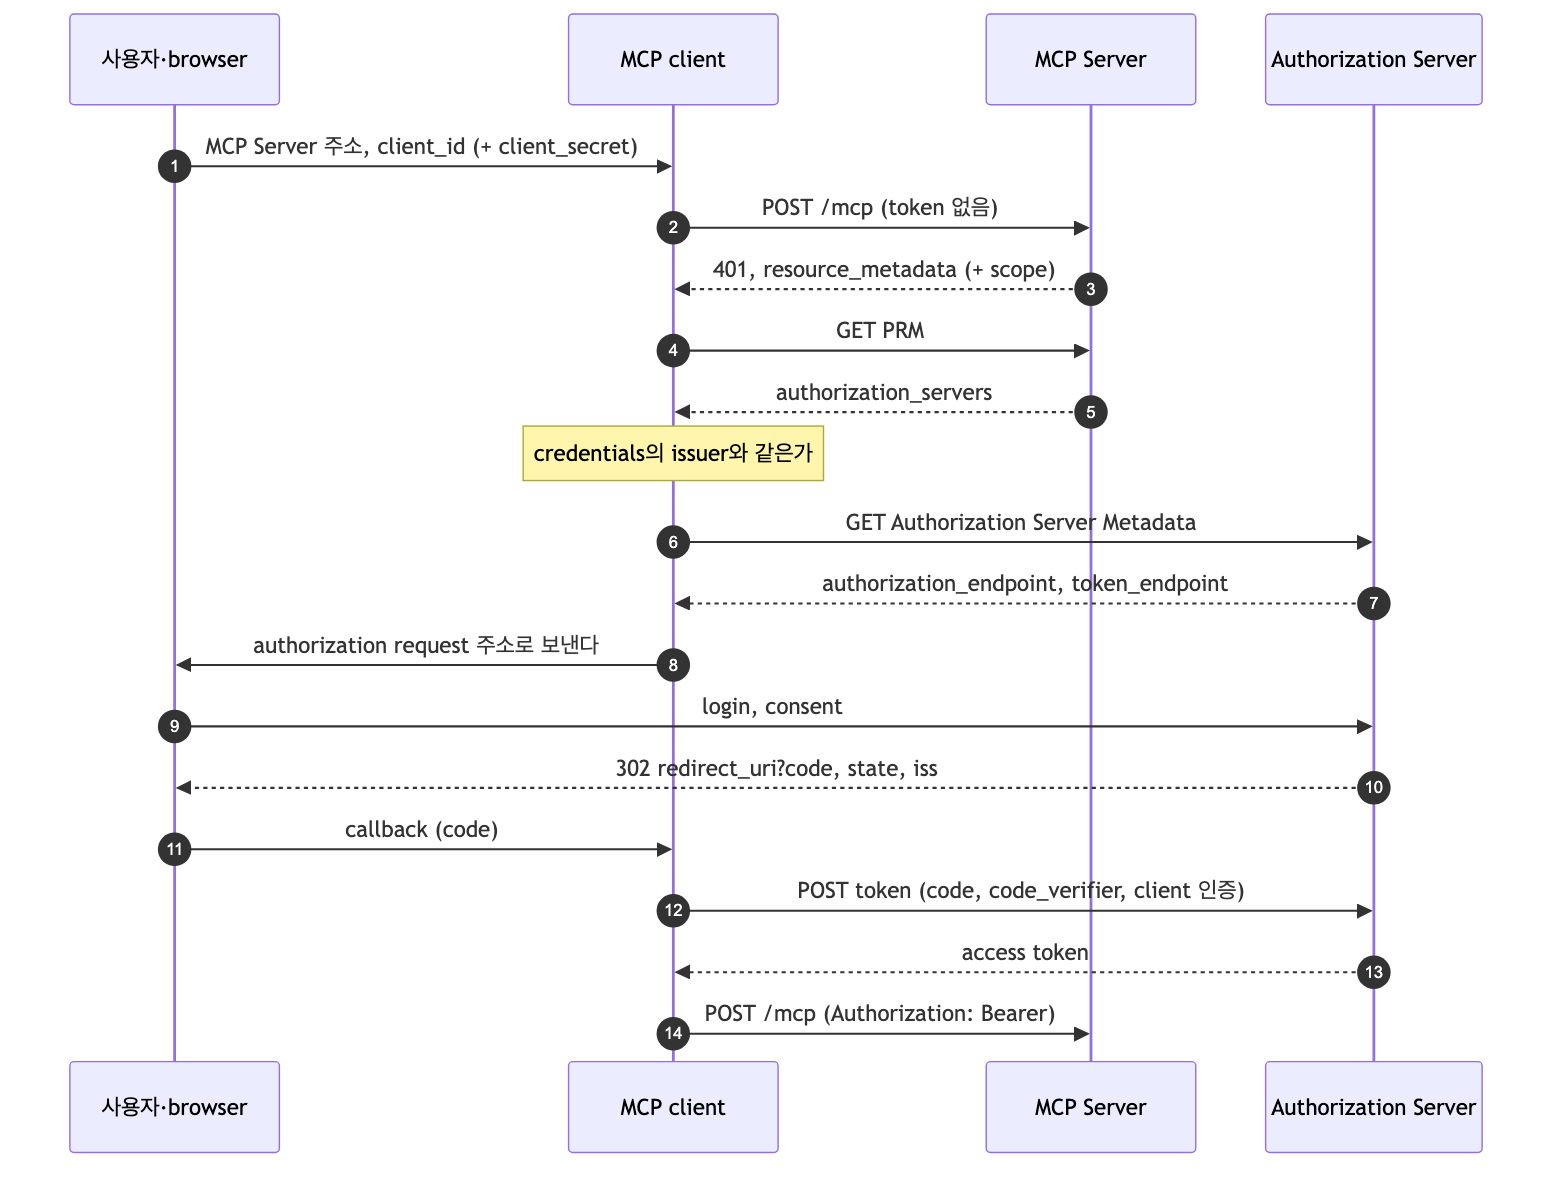
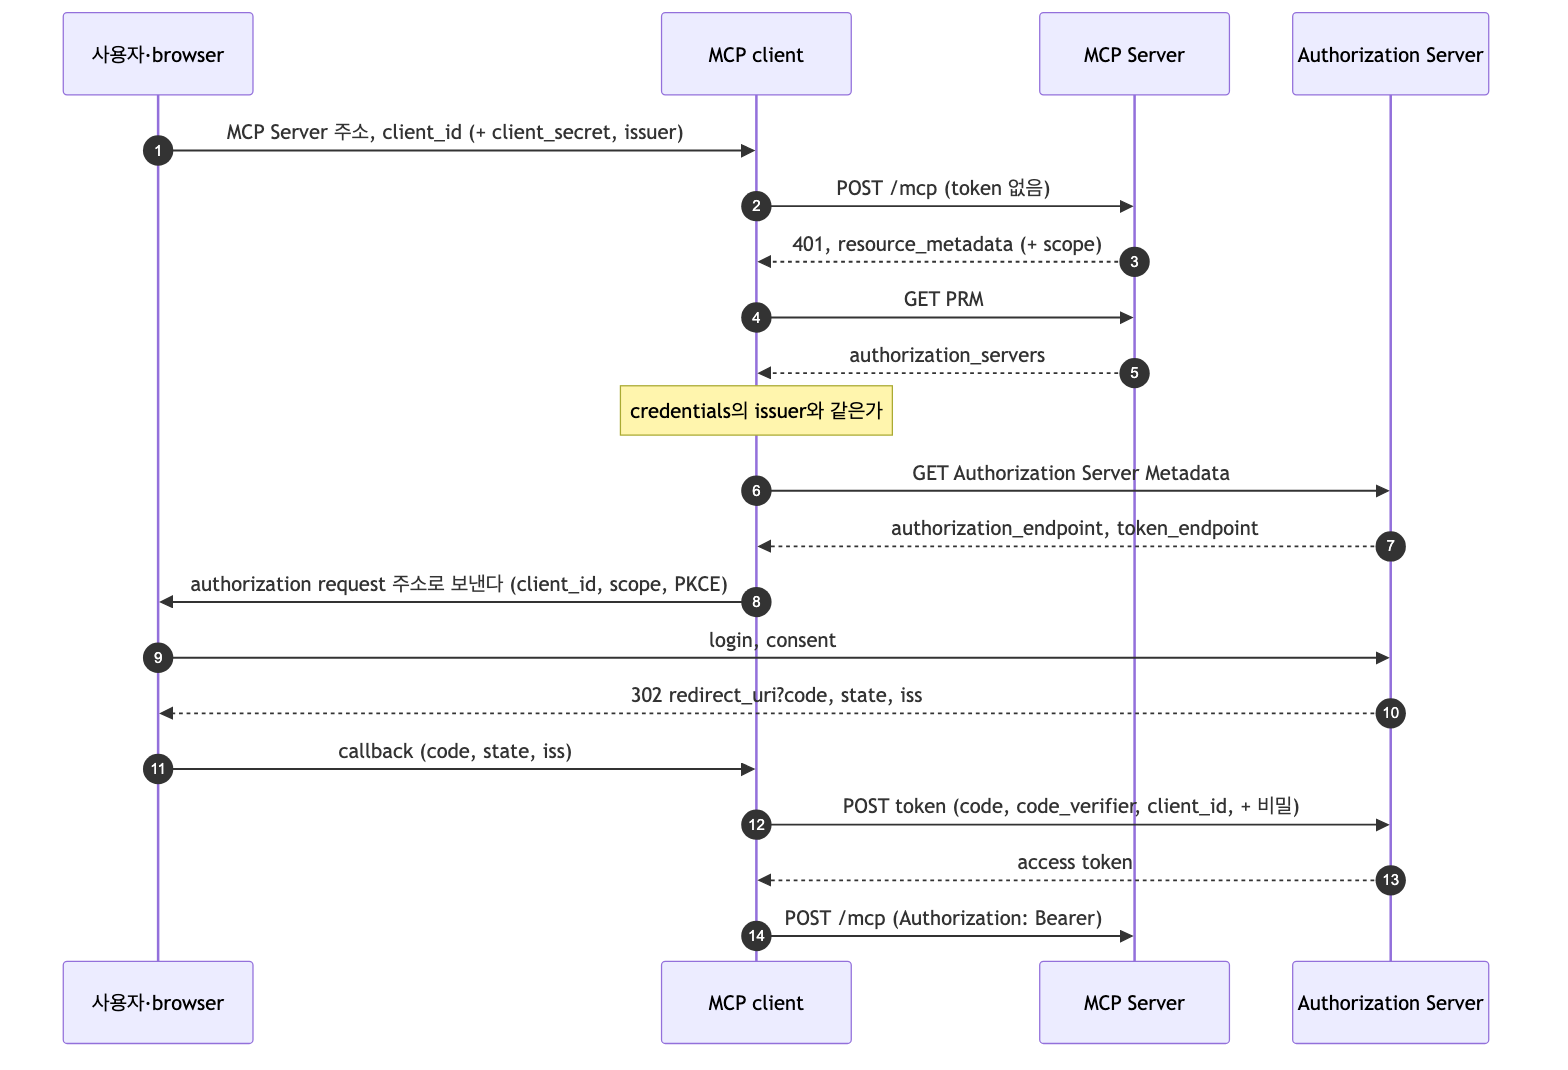
docs(guide): 4.8을 리뷰대로 고친다 — issuer 입력, 사용자 입력 방식과의 구분, PKCE 설명

diff --git a/practice/mcp-guide/README.md b/practice/mcp-guide/README.md
@@ -45,7 +45,7 @@ mermaid를 그리지 못하는 viewer에서는 다이어그램 바로 아래의 
 | [1. MCP 기초](01-mcp-basics.md) | host 안의 MCP client가 JSON-RPC로 MCP Server의 tool을 부르는 과정, `initialize`부터 `DELETE`까지의 session과 버전 header | agent에 채팅하고 MCP Server 로그의 tool 호출 줄 보기, 캡처 스크립트로 MCP 요청과 응답 보기 |
 | [2. MCP와 OAuth](02-why-oauth.md) | 원격 MCP Server가 access token으로 누구의 요청인지 아는 방법, 역할과 전체 흐름, 일반 OAuth와 다른 다섯 가지 | token 없이 `initialize`를 보내 `401` 받기 |
 | [3. Discovery](03-discovery.md) | MCP Server 주소 하나에서 `401` → PRM → Authorization Server Metadata 순서로 endpoint를 찾아가는 과정과 client가 확인할 것 | curl 세 번으로 `401`의 `resource_metadata`, PRM, metadata 읽기 |
-| [4. Client 등록](04-client-registration.md) | pre-registration·CIMD·DCR의 우선순위, public client의 규칙, credentials를 issuer에 묶는 이유, 미리 등록한 client가 처음 연결하는 순서 | metadata에서 `none`을 찾고, CIMD·DCR field가 없는 것 보기 |
+| [4. Client 등록](04-client-registration.md) | pre-registration·CIMD·DCR의 우선순위, public client의 규칙, credentials를 issuer에 묶는 이유, 미리 등록한 client의 첫 연결 순서 | metadata에서 `none`을 찾고, CIMD·DCR field가 없는 것 보기 |
 | [5. Authorization request와 token](05-authorization-and-token.md) | authorization code grant에 PKCE, `resource`, callback의 `state`·`iss` 확인을 더한 흐름과 token request·refresh | `code_verifier`로 `code_challenge` 계산하기, 모르는 `resource`로 `invalid_target` 받기 |
 | [6. MCP 호출과 token 검증](06-mcp-call-and-validation.md) | Bearer token을 붙인 MCP 요청, MCP Server의 검사 순서(`Origin`·`Host` → token → 버전 → session), agent가 사용자마다 token을 붙이는 방법 | `403`·`421`·`401 invalid_token` 받기, 검사 순서 보기, JWK Set 읽기 |
 | [7. 로컬 MCP client](07-local-client.md) | 사용자 기기의 public client가 기본 browser와 loopback callback으로 전체 흐름을 혼자 밟는 과정 | `local-client`로 login부터 MCP 호출까지 하기, 등록되지 않은 issuer로 discovery에서 멈추기 |

diff --git a/practice/mcp-guide/02-why-oauth.md b/practice/mcp-guide/02-why-oauth.md
@@ -179,7 +179,7 @@ sequenceDiagram
 | 구간 | 메시지 | 하는 일 | 다루는 장 |
 |---|---|---|---|
 | discovery | (1)~(6) | MCP Server 주소 하나에서 Authorization Server의 endpoint까지 찾아간다 | [3장](03-discovery.md) |
-| client 등록 | (6)과 (7) 사이. official은 미리 등록해 둔다 | Authorization Server가 아는 `client_id`를 마련한다. 미리 등록한 client는 이 단계만 건너뛰고, 나머지 순서는 같다 | [4장](04-client-registration.md) |
+| client 등록 | (6)과 (7) 사이 | Authorization Server가 아는 `client_id`를 마련한다. official처럼 미리 등록한 client는 이 단계만 건너뛰고, 나머지 순서는 같다 | [4장](04-client-registration.md) |
 | authorization request | (7)(8) | PKCE와 `resource`를 넣은 주소로 사용자를 Authorization Server에 보낸다 | [5장](05-authorization-and-token.md) |
 | login·consent | (9)(10) | 사용자가 Authorization Server에서 직접 login하고 허락한다 | [5장](05-authorization-and-token.md) |
 | callback | (11)(12) | authorization code가 client에게 돌아온다. client는 `state`와 `iss`를 확인한다 | [5장](05-authorization-and-token.md) |
